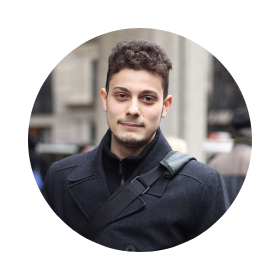
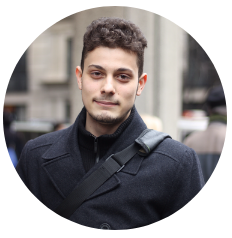
About me made and began skills

diff --git a/src/components/About/About.js b/src/components/About/About.js
@@ -1,12 +1,34 @@
-import React, { Component } from 'react';
-import PropTypes from 'prop-types';
+import React from 'react';
+import './About.css';
 
-export default class About extends Component {
-    static propTypes = {
-        prop: PropTypes
-    };
-
-    render() {
-        return <div></div>;
-    }
+function About() {
+    return (
+        <div id="about" className="aboutMe row-fluid">
+            <h3 class="subtitle fancy">
+                <span style={{ marginTop: '20px' }}>About Me</span>
+            </h3>
+            <div className="row">
+                <div className="col-sm-6">
+                    <img
+                        className="profileimg"
+                        src={require('../../images/ProfilePic.png')}
+                        alt="Marin Marinov"
+                    />
+                </div>
+                <div className="col-md-6">
+                    <p className="description">
+                        {' '}
+                        Hello and Welcome to my website! My name is Marin. I am currently a student
+                        at macaulay honors college @Hunter College. I am persuing a Computer Science
+                        major along with minors in Mathematics and Psychology. I have worked mostly
+                        as a math tutor but now I am hoping dive into being a software developer. I
+                        have worked on both personal and group coding projects. I have also had the
+                        honor to intern as a software engineer in WeWork labs
+                    </p>
+                </div>
+            </div>
+        </div>
+    );
 }
+
+export default About;

diff --git a/src/components/About/About.css b/src/components/About/About.css
@@ -1,0 +1,56 @@
+#about img {
+    border-radius: 75%;
+    margin-bottom: 10px;
+}
+
+.aboutMe {
+    opacity: 0.8;
+    background-color: rgba(224, 221, 221, 0.98);
+    position: relative;
+    color: black;
+}
+
+.aboutMe:after {
+    content: '';
+    position: absolute;
+    top: 100%;
+    left: 50%;
+    margin-left: -50px;
+    width: 0;
+    height: 0;
+    border-top: solid 50px rgba(175, 174, 174, 0.98);
+    border-left: solid 50px transparent;
+    border-right: solid 50px transparent;
+}
+
+.description {
+    margin-top: 15px;
+}
+
+/* FANCY LINES */
+.fancy {
+    line-height: 0.5;
+    text-align: center;
+}
+.fancy span {
+    display: inline-block;
+    position: relative;
+}
+.fancy span:before,
+.fancy span:after {
+    content: '';
+    position: absolute;
+    height: 5px;
+    border-bottom: 1px solid black;
+    border-top: 1px solid black;
+    top: 0;
+    width: 200px;
+}
+.fancy span:before {
+    right: 100%;
+    margin-right: 15px;
+}
+.fancy span:after {
+    left: 100%;
+    margin-left: 15px;
+}

diff --git a/src/components/Skills/Skills.js b/src/components/Skills/Skills.js
@@ -1,12 +1,25 @@
 import React, { Component } from 'react';
-import PropTypes from 'prop-types';
+import './Skills.css';
+import './../About/About.css';
 
 export default class Skills extends Component {
-    static propTypes = {
-        prop: PropTypes
-    };
-
     render() {
-        return <div></div>;
+        return (
+            <div id="skills" className="row-fluid">
+                <h3 className="title">Skills</h3>
+                <div className="row skillRow">
+                    <h5> Programming Languages:</h5>
+                </div>
+                <div className="row skillRow">
+                    <h5>FrameWorks/Libraries/Runtime Environments:</h5>
+                </div>
+                <div className="row skillRow">
+                    <h5>Database(s):</h5>
+                </div>
+                <div className="row skillRow">
+                    <h5>Other Software:</h5>
+                </div>
+            </div>
+        );
     }
 }

diff --git a/src/pages/index.js b/src/pages/index.js
@@ -1,15 +1,18 @@
 import React from 'react';
-import NavBar from './../components/NavBar/NavBar';
+// CSS
 import './index.css';
 import 'bootstrap/dist/css/bootstrap.min.css';
+// Components
+import NavBar from './../components/NavBar/NavBar';
+import About from './../components/About/About';
+import Skills from './../components/Skills/Skills';
 
 const IndexPage = () => (
     <div id="index">
-        <div id="nav">
-            <NavBar />
-        </div>
-        <h1 style={{ marginTop: '70px' }}>Hello and Welcome to my Website!</h1>
-        <h3>My name is 🅜🅐🅡🅘🅝 🅟. 🅜🅐🅡🅘🅝🅞🅥</h3>
+        <NavBar />
+        <h1 style={{ marginTop: '72px' }}> 🅜🅐🅡🅘🅝 🅟. 🅜🅐🅡🅘🅝🅞🅥</h1>
+        <About />
+        <Skills />
         <footer className="row-fluid"></footer>
     </div>
 );

diff --git a/src/components/NavBar/NavBar.js b/src/components/NavBar/NavBar.js
@@ -8,7 +8,7 @@ import MdMail from 'react-ionicons/lib/MdMail';
 
 function NavBar() {
     return (
-        <div>
+        <div id="navbar">
             <nav className="sticky">
                 <div className="row">
                     <h3 className="navName">𝔐𝔞𝔯𝔦𝔫𝔬𝔳</h3>

diff --git a/src/components/Projects/Projects.js b/src/components/Projects/Projects.js
@@ -1,5 +1,6 @@
 import React, { Component } from 'react';
 import PropTypes from 'prop-types';
+import './Projects.css';
 
 export default class Projects extends Component {
     static propTypes = {

diff --git a/src/components/Skills/Skills.css b/src/components/Skills/Skills.css
@@ -1,0 +1,12 @@
+#skills {
+    background: azure;
+    color: black;
+}
+
+.title {
+    padding-top: 50px;
+}
+
+.skillRow {
+    margin: 25px;
+}
